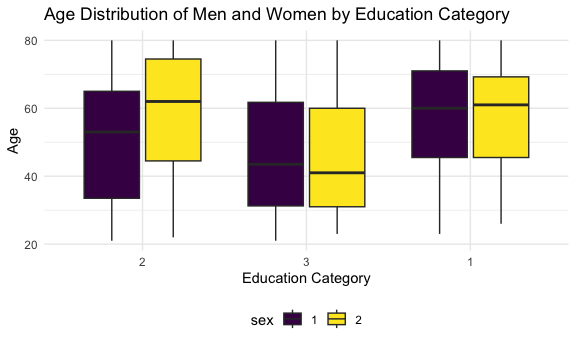
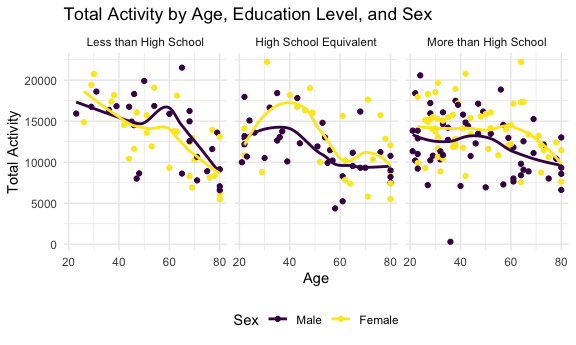
creating median ride duration plot for problem 3 and adding comments

diff --git a/p8105_hw3_leb2236.md b/p8105_hw3_leb2236.md
@@ -3,6 +3,9 @@ Homework 3
 Laura Bulmer
 10/16/2024
 
+Before starting on the problems, I’m setting up my libraries and options
+for visuals.
+
 ``` r
 library(p8105.datasets)
 library(tidyverse)
@@ -48,10 +51,16 @@ data("ny_noaa")
 
 ## Problem 2
 
+#### Importing, cleaning, and joining the data
+
 First, the below code is used to load and tidy the datasets related to
-accelerometers and the participants.
+accelerometers and the participants. I am sub-setting participants data
+to drop missing observations and exclude participants less than 21.
+Then, I will join the two datasets.
 
 ``` r
+# loading the tidying the data for participants
+
 participants = 
   read_csv(file = "./data/nhanes_covar.csv", 
            skip = 4,
@@ -68,6 +77,8 @@ participants = janitor::clean_names(participants)
 ```
 
 ``` r
+# loading and tidying the data for accelerometer
+
 accelerometer = read_csv(file = "./data/nhanes_accel.csv",
                          na = c(".", "NA", ""),
                          col_types = cols(
@@ -77,32 +88,40 @@ accelerometer = read_csv(file = "./data/nhanes_accel.csv",
 accelerometer = janitor::clean_names(accelerometer)
 ```
 
-Next I am sub-setting participants data to drop missing observations and
-exclude participants less than 21.
-
 ``` r
+# dropping participants observations with missing data and those under 21
+
 participants_clean = participants %>%
   drop_na() %>%
   filter(age > 20)
 ```
 
-Next, I am joining my two datasets.
-
 ``` r
+# joining the participants and accelerometer dataframes
+
 accel_df = left_join(participants_clean, accelerometer, by = 'seqn')
 ```
 
-Next I am creating a table for the number of men and women in each
-education category.
+#### Analysis on age distribution, gender, and education level of particpants
+
+Next, I am creating a table for the number of men and women in each
+education category and a visualization of the age distribution within
+each education category.
 
 ``` r
+# creating the table of education level by gender
+
 accel_df %>%
   mutate(
     sex = recode(sex, `1` = "Male", `2` = "Female"),
     education = recode(education, 
                        `1` = "Less than High School", 
                        `2` = "High School Equivalent", 
-                       `3` = "More than High School")
+                       `3` = "More than High School"),
+    education = factor(education, 
+                       levels = c("Less than High School", 
+                                  "High School Equivalent", 
+                                  "More than High School"))
     )%>%
 group_by(education, sex) %>%
   summarize(count_education = n()) %>%
@@ -110,43 +129,83 @@ group_by(education, sex) %>%
     names_from = sex,
     values_from = count_education
   )%>%
+  rename('Education Level' = education)%>%
 knitr::kable()
 ```
 
     ## `summarise()` has grouped output by 'education'. You can override using the
     ## `.groups` argument.
 
-| education              | Male | Female |
+| Education Level        | Male | Female |
 |:-----------------------|-----:|-------:|
+| Less than High School  |   27 |     28 |
 | High School Equivalent |   35 |     23 |
 | More than High School  |   56 |     59 |
-| Less than High School  |   27 |     28 |
+
+From our table, there appears to be a reasonably even distribution of
+men and women in the education categories of ‘less than high school’ and
+‘more than high school’, however there are significantly more men than
+women in the ‘high school equivalent’ category. Overall, there are more
+total participants in the ‘more than high school’ category compared to
+the other two categories.
 
 ``` r
+# creating a boxplot to show age distribution for each education category
 accel_df %>%
+  mutate(
+    sex = recode(sex, `1` = "Male", `2` = "Female"),
+    education = recode(education, 
+                       `1` = "Less than High School", 
+                       `2` = "High School Equivalent", 
+                       `3` = "More than High School"),
+    education = factor(education, 
+                       levels = c("Less than High School", 
+                                  "High School Equivalent", 
+                                  "More than High School"))
+    )%>%
   ggplot(aes(x = education, y = age, fill = sex))+
   geom_boxplot()+
   labs(title = "Age Distribution of Men and Women by Education Category",
-       x = "Education Category",
+       x = "Education Level",
        y = "Age")
 ```
 
-<img src="p8105_hw3_leb2236_files/figure-gfm/unnamed-chunk-5-1.png" width="90%" />
+<img src="p8105_hw3_leb2236_files/figure-gfm/unnamed-chunk-4-1.png" width="90%" />
 
-INSERT COMMENTS ON THE TABLE AND PLOT ABOVE HERE
+From the box plots, we can further analyze the distribution of age for
+each gender within each education category. The distribution of age is
+less spread out among those in the ‘less than high school’ category when
+compared to the other two categories. The average age for both men and
+women in the ‘more than high school’ category is much lower comparative
+to the other two two categories of education.
 
-Next I am aggregating and plotting total activity.
+#### Calculating and plotting total activity
+
+Next, I am aggregating and plotting total activity.
 
 ``` r
+# creating total_act variable and plotting
+
 accel_df = accel_df %>%
   mutate(total_act = rowSums(select(., min1:min1440), na.rm = TRUE))
 
 accel_df%>%
+  mutate(
+    sex = recode(sex, `1` = "Male", `2` = "Female"),
+    education = recode(education, 
+                       `1` = "Less than High School", 
+                       `2` = "High School Equivalent", 
+                       `3` = "More than High School"),
+    education = factor(education, 
+                       levels = c("Less than High School", 
+                                  "High School Equivalent", 
+                                  "More than High School"))
+    )%>%
   ggplot(aes(x = age, y = total_act, color = sex)) +
     geom_point() +  
     geom_smooth(se = FALSE) +
     facet_wrap(~ education) + 
-    labs(title = "Total Activity by Age and Education Level",
+    labs(title = "Total Activity by Age, Education Level, and Sex",
          x = "Age",
          y = "Total Activity",
          color = "Sex")
@@ -154,14 +213,22 @@ accel_df%>%
 
     ## `geom_smooth()` using method = 'loess' and formula = 'y ~ x'
 
-<img src="p8105_hw3_leb2236_files/figure-gfm/unnamed-chunk-6-1.png" width="90%" />
+<img src="p8105_hw3_leb2236_files/figure-gfm/unnamed-chunk-5-1.png" width="90%" />
 
-INSERT COMMENTS ON THE PLOT ABOVE HERE
+From the graph above, it appears that for both the ‘high school
+equivalent’ and ‘more than high school’ education categories, women
+generally have a higher total activity level than men at all ages. For
+the ‘less than high school’ category, women initially have a higher
+activity level, but men begin to surpass them around age 45-50.
+
+#### Plotting 24 hour activity time courses
 
 Next I am creating a three-panel plot that shows the 24 hour activity
 time courses for each education level. Sex is labeled using color.
 
 ``` r
+# pivoting my dataframe longer
+
 accel_df_long = accel_df %>%
   pivot_longer(
     cols = starts_with("min"),
@@ -171,25 +238,62 @@ accel_df_long = accel_df %>%
   ) %>%
   mutate(minute = as.numeric(minute))
 
+# creating tick labels for my graph
+
+tick_labels = c(
+  "0" = "00:00",
+  "360" = "06:00",
+  "720" = "12:00",
+  "1080" = "18:00",
+  "1440" = "24:00"
+)
+
+# creating the plot
+
 accel_df_long %>%
+  mutate(
+    sex = recode(sex, `1` = "Male", `2` = "Female"),
+    education = recode(education, 
+                       `1` = "Less than High School", 
+                       `2` = "High School Equivalent", 
+                       `3` = "More than High School"),
+    education = factor(education, 
+                       levels = c("Less than High School", 
+                                  "High School Equivalent", 
+                                  "More than High School"))
+    )%>%
   ggplot(aes(x=minute, y = mims, color = sex))+
   geom_smooth(se=FALSE)+
   facet_wrap(.~education, ncol = 1)+
+  scale_x_continuous(
+    breaks = as.numeric(names(tick_labels)),  # Set specific tick positions
+    labels = tick_labels) +
   labs(title = "24-hour Activity Time Courses for Education Levels by Sex",
-       x = "Minutes",
+       x = "Time of Day (hr)",
        y = "Activity Level (MIMS)",
        color = "Sex")
 ```
 
     ## `geom_smooth()` using method = 'gam' and formula = 'y ~ s(x, bs = "cs")'
 
-<img src="p8105_hw3_leb2236_files/figure-gfm/unnamed-chunk-7-1.png" width="90%" />
+<img src="p8105_hw3_leb2236_files/figure-gfm/unnamed-chunk-6-1.png" width="90%" />
+
+From the plot above, it appears that for participants in all education
+categories, the average activity level is generally low early in the
+morning and late at night. The average activity levels generally start
+to rise around 6AM and start to decrease after 6PM. The activity levels
+for the ‘less than high school’ category peaks at a slightly higher
+level compared to the other two categories.
 
 ## Problem 3: Citi Biking
 
-First, I am going to load in my four data files.
+#### Loading, tidying, and merging the data
+
+First, I am going to load in the four data files.
 
 ``` r
+# loading citi biking data
+
 jan_2020 = read_csv(file="./data/Jan 2020 Citi.csv", show_col_types = FALSE) %>%
   janitor::clean_names()
 
@@ -208,6 +312,8 @@ merging. I am hiding the results because they are lengthy, but all
 variable types match across the datasets.
 
 ``` r
+# checking variable types
+
 str(jan_2020)
 str(jan_2024)
 str(july_2020)
@@ -215,11 +321,11 @@ str(july_2024)
 ```
 
 Next I am going to merge my four datasets. Since the variables are the
-same across all datasets, I am going to bind the rows. I am adding a
-year and month variable so that I don’t lose this information in the
-combined dataset.
+same across all datasets, I am going to bind the rows.
 
 ``` r
+# merging the datasets by binding the rows
+
 citi_df = bind_rows(
   jan_2020 %>%
     mutate(month = "January", year = "2020"), 
@@ -232,18 +338,33 @@ citi_df = bind_rows(
   )
 ```
 
-INSERT DESCRIPTION OF THE DATA SET HERE
+The resulting dataset contains all of the observations for rides in
+January and July of 2020 and 2024. There are 99485 observations and 9
+variables. The ‘month’ and ‘year’ variables were added to indicate when
+each ride occurred. The other variables included in the dataset are ride
+ID (ride_id), bike type (rideable_type), day of the week (weekdays),
+duration of ride (duration), starting station (start_station_name),
+ending station (end_station_name), and member status (member_casual).
+
+#### Creating table of total rides per month of interest
 
 Next I am creating a table to show the total number of rides in January
 and July of 2020 and 2024, for both casual riders and Citi Bike members.
 
 ``` r
+# creating the table of total rides in Jan/July in 2020/2024
+
 citi_df%>%
   mutate(
     member_casual = recode(member_casual, 
                            'member' = 'Citi Bike Member', 
                            'casual' = 'Casual Rider'),
-    Timeframe = paste(month, year)
+    Timeframe = paste(month, year),
+    Timeframe = factor(Timeframe, 
+                       levels = c("January 2020", 
+                                  "July 2020", 
+                                  "January 2024",
+                                  "July 2024"))
   )%>%
   group_by (member_casual,Timeframe) %>%
   summarize(total_obs = n())%>%
@@ -260,17 +381,26 @@ citi_df%>%
 | Timeframe    | Casual Rider | Citi Bike Member |
 |:-------------|-------------:|-----------------:|
 | January 2020 |          984 |            11436 |
-| January 2024 |         2108 |            16753 |
 | July 2020    |         5637 |            15411 |
+| January 2024 |         2108 |            16753 |
 | July 2024    |        10894 |            36262 |
 
-INSERT COMMENTS HERE ON THE TABLE ABOVE
+From the table above, it appears that rides for both casual riders and
+citi bike members are higher in July compared to January in both 2020
+and 2024. For all months of interest, more rides were completed by citi
+bike members compared to casual riders. Generally, the number of rides
+appears to be increasing over time, with the exception of casual riders
+in January 2024 compared to July of 2020.
+
+#### Creating a table of popular stations in July 2024
 
 Next, I am making a table showing the 5 most popular starting stations
 for July 2024, inclusive of the number of rides originating from these
 stations.
 
 ``` r
+# Creating a table of the 5 most popular starting stations in July 2024
+
 july_2024 %>%
   group_by(start_station_name)%>%
   summarize(
@@ -289,3 +419,28 @@ july_2024 %>%
 | W 21 St & 6 Ave          |             152 |
 | West St & Chambers St    |             150 |
 | W 31 St & 7 Ave          |             146 |
+
+Next I am going to make a plot to investigate the effects of day of the
+week, month, and year on median ride duration.
+
+``` r
+citi_df %>%
+  mutate(
+    weekdays = factor(weekdays, levels = c("Monday", "Tuesday", "Wednesday", "Thursday", "Friday", "Saturday", "Sunday"))
+  )%>%
+  group_by (weekdays, month, year)%>%
+  summarize(med_duration = median(duration, na.rm = TRUE))%>%
+  ggplot(aes(x=weekdays, y=med_duration, fill=year))+
+  geom_bar(stat="identity", position='dodge')+
+  facet_wrap(.~month, ncol = 1)+
+  labs(
+    title = "Median Ride Duration by Weekday, Month, and Year",
+    x = "Day of Week",
+    y = "Median Ride Duration (minutes)"
+  )
+```
+
+    ## `summarise()` has grouped output by 'weekdays', 'month'. You can override using
+    ## the `.groups` argument.
+
+<img src="p8105_hw3_leb2236_files/figure-gfm/unnamed-chunk-12-1.png" width="90%" />
